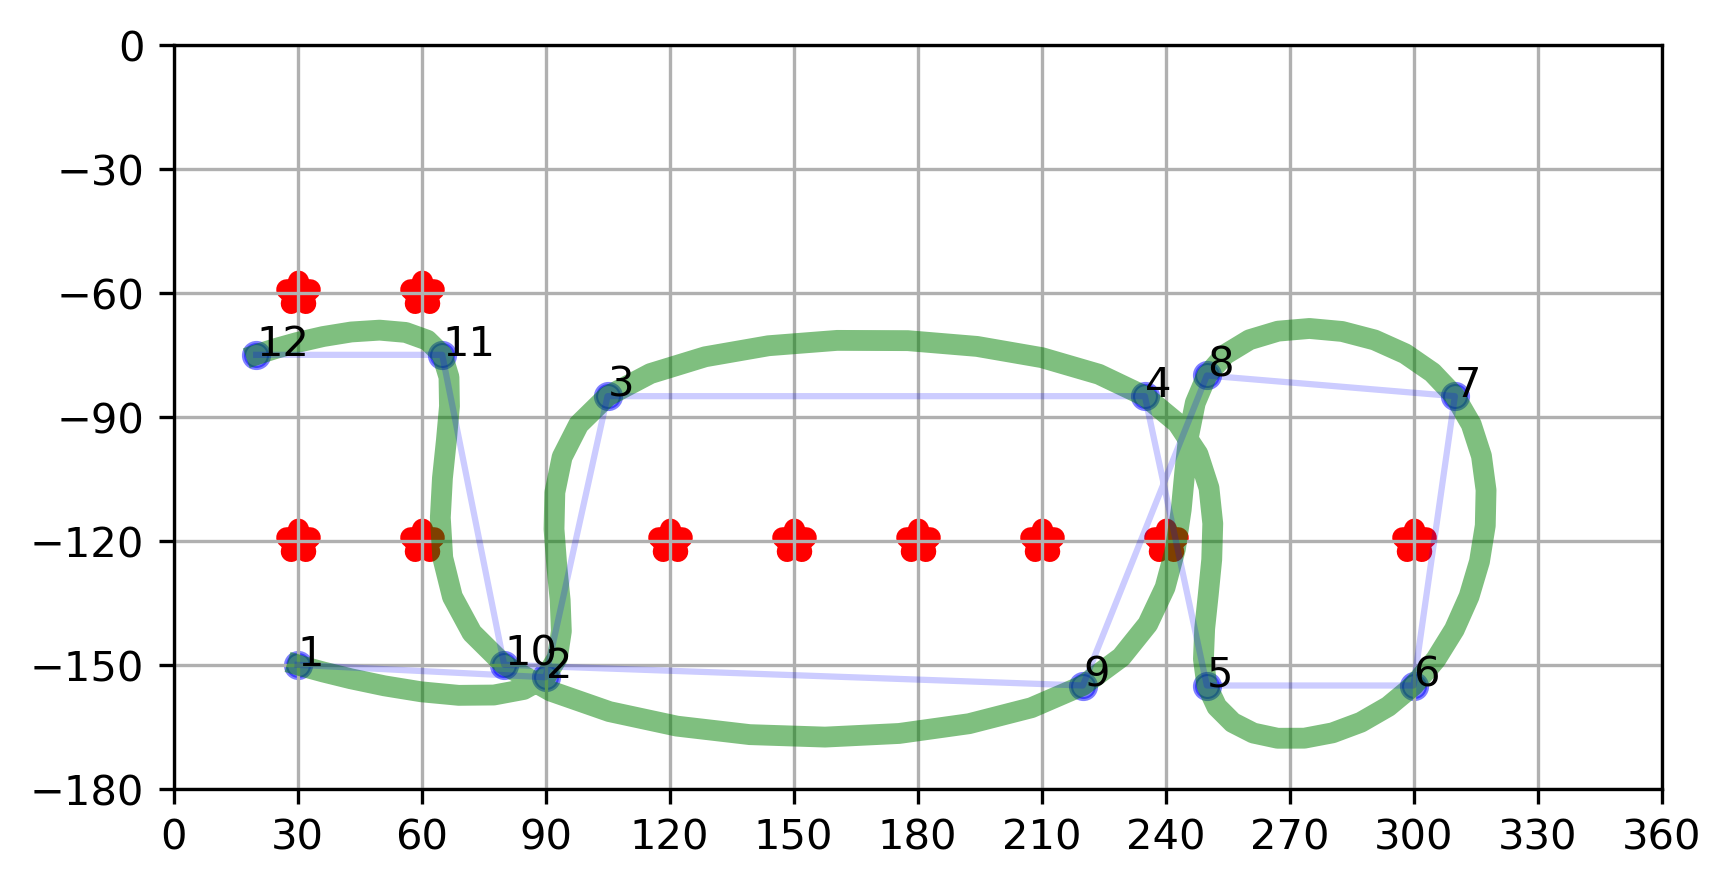
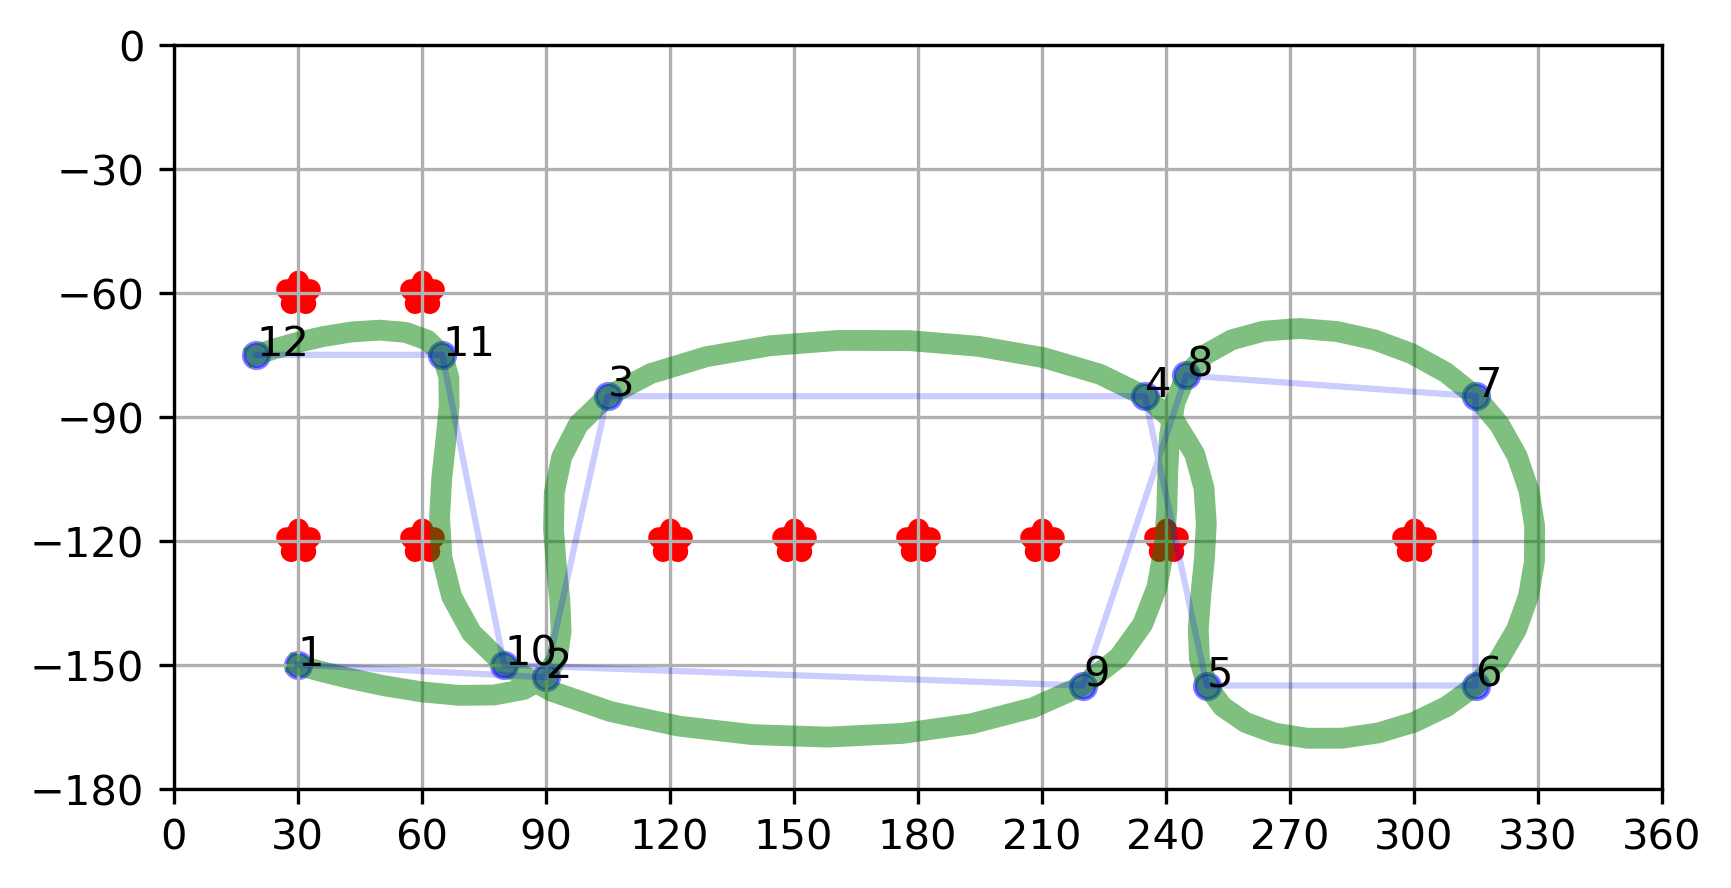
slalom apr2 v7

Changed region(s): [[0.6863, 0.3953, 0.9047, 0.8514], [0.6239, 0.3649, 0.7487, 0.7601]]

diff --git a/python/slalom_apr2.java b/python/slalom_apr2.java
@@ -4,9 +4,9 @@
 	{105,85},	// 3
 	{235,85},	// 4
 	{250,155},	// 5
-	{300,155},	// 6
-	{310,85},	// 7
-	{250,80},	// 8
+	{315,155},	// 6
+	{315,85},	// 7
+	{245,80},	// 8
 	{220,155},	// 9
 	{80,150},	// 10
 	{65,75},	// 11
